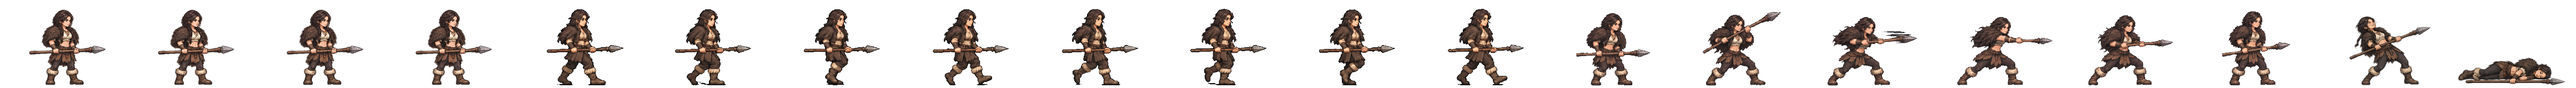
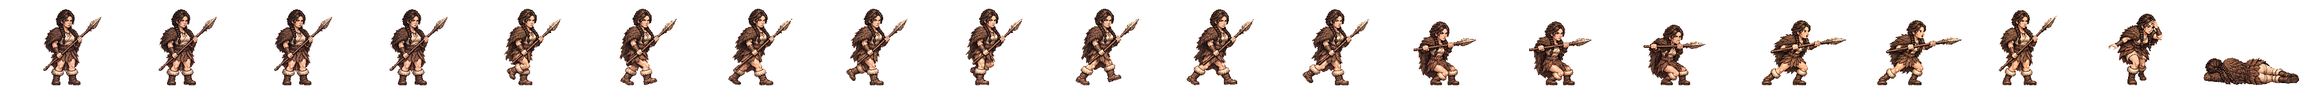
저가 엄니 · 우시산 해솔 · 관나 쇠눈 새 전투 띠를 게임에 (창 · 새 찌르기 · 맞음 네 칸 · 개성 동작) · 끝까지 찌른 칸은 a4 로 · 엄니 쓰러짐은 형 요청대로 속곳이 살짝 보이게 다시 · 해솔 찌르기 a 칸4 는 손 셋을 고친 판으로
Claude-Session: https://claude.ai/code/session_01TRiuN7s6aDfSnaHxrkctmU

Changed region(s): [[0.0, 0.0938, 1.0, 0.9688]]

diff --git a/src/realm/data/spritePx.ts b/src/realm/data/spritePx.ts
@@ -1,3 +1,3 @@
 /** public/realm/anim-px/manifest.json 의 사본 — tools/sprite-normalize.mjs 가 만든다 (손으로 고치지 말 것). 칸 [가로, 세로] · feet = 발 줄(칸 위에서 y) · bodyPx = 서 있는 몸 키 */
 import { expandManifest } from './sprite-manifest.ts'
-export const SPRITE_PX: Readonly<Record<string, { readonly cell: readonly [number, number]; readonly feet: number; readonly bodyPx: number; readonly kind: 'general' | 'soldier' | 'folk' | 'crowd'; readonly cells: number }>> = expandManifest<{ readonly cell: readonly [number, number]; readonly feet: number; readonly bodyPx: number; readonly kind: 'general' | 'soldier' | 'folk' | 'crowd'; readonly cells: number }>([{"cell":[166,128],"feet":126,"bodyPx":124,"kind":"soldier","cells":20},{"cell":[116,128],"feet":126,"bodyPx":117,"kind":"soldier","cells":20},{"cell":[127,128],"feet":126,"bodyPx":116,"kind":"soldier","cells":20},{"cell":[269,128],"feet":126,"bodyPx":126,"kind":"soldier","cells":20},{"cell":[503,128],"feet":126,"bodyPx":127,"kind":"soldier","cells":20},{"cell":[614,128],"feet":126,"bodyPx":126,"kind":"soldier","cells":20},{"cell":[200,160],"feet":156,"bodyPx":138,"kind":"general","cells":20},{"cell":[208,160],"feet":155,"bodyPx":138,"kind":"general","cells":20},{"cell":[208,160],"feet":154,"bodyPx":138,"kind":"general","cells":20},{"cell":[304,160],"feet":155,"bodyPx":135,"kind":"general","cells":20},{"cell":[184,160],"feet":156,"bodyPx":138,"kind":"general","cells":20},{"cell":[208,160],"feet":154,"bodyPx":136,"kind":"general","cells":20},{"cell":[232,160],"feet":156,"bodyPx":138,"kind":"general","cells":20},{"cell":[208,160],"feet":156,"bodyPx":138,"kind":"general","cells":20},{"cell":[168,160],"feet":156,"bodyPx":124,"kind":"general","cells":20},{"cell":[216,160],"feet":156,"bodyPx":130,"kind":"general","cells":20},{"cell":[200,160],"feet":156,"bodyPx":116,"kind":"general","cells":20},{"cell":[192,160],"feet":156,"bodyPx":138,"kind":"general","cells":20},{"cell":[200,160],"feet":156,"bodyPx":135,"kind":"general","cells":20},{"cell":[280,160],"feet":156,"bodyPx":138,"kind":"general","cells":20},{"cell":[232,160],"feet":155,"bodyPx":138,"kind":"general","cells":20},{"cell":[232,160],"feet":156,"bodyPx":134,"kind":"general","cells":20},{"cell":[144,160],"feet":156,"bodyPx":70,"kind":"general","cells":20},{"cell":[208,160],"feet":156,"bodyPx":70,"kind":"general","cells":20},{"cell":[192,160],"feet":156,"bodyPx":70,"kind":"general","cells":20},{"cell":[240,160],"feet":155,"bodyPx":138,"kind":"general","cells":20},{"cell":[160,160],"feet":156,"bodyPx":135,"kind":"general","cells":20},{"cell":[192,160],"feet":156,"bodyPx":128,"kind":"general","cells":20},{"cell":[224,160],"feet":155,"bodyPx":138,"kind":"general","cells":20},{"cell":[232,160],"feet":156,"bodyPx":139,"kind":"general","cells":20},{"cell":[216,160],"feet":156,"bodyPx":138,"kind":"general","cells":20},{"cell":[208,160],"feet":156,"bodyPx":134,"kind":"general","cells":20},{"cell":[176,160],"feet":156,"bodyPx":130,"kind":"general","cells":20},{"cell":[248,160],"feet":156,"bodyPx":138,"kind":"general","cells":20},{"cell":[248,160],"feet":155,"bodyPx":138,"kind":"general","cells":20},{"cell":[192,160],"feet":155,"bodyPx":138,"kind":"general","cells":20},{"cell":[192,160],"feet":156,"bodyPx":124,"kind":"general","cells":20},{"cell":[208,160],"feet":154,"bodyPx":131,"kind":"general","cells":20},{"cell":[256,160],"feet":156,"bodyPx":138,"kind":"general","cells":20},{"cell":[240,160],"feet":156,"bodyPx":138,"kind":"general","cells":20},{"cell":[232,160],"feet":156,"bodyPx":73,"kind":"general","cells":20},{"cell":[256,160],"feet":155,"bodyPx":138,"kind":"general","cells":20},{"cell":[264,160],"feet":156,"bodyPx":138,"kind":"general","cells":20},{"cell":[224,160],"feet":156,"bodyPx":138,"kind":"general","cells":20},{"cell":[224,160],"feet":156,"bodyPx":128,"kind":"general","cells":20},{"cell":[176,160],"feet":156,"bodyPx":129,"kind":"general","cells":20},{"cell":[208,160],"feet":154,"bodyPx":139,"kind":"general","cells":20},{"cell":[208,160],"feet":156,"bodyPx":132,"kind":"general","cells":20},{"cell":[208,160],"feet":154,"bodyPx":137,"kind":"general","cells":20},{"cell":[184,160],"feet":156,"bodyPx":122,"kind":"general","cells":20},{"cell":[176,160],"feet":156,"bodyPx":138,"kind":"general","cells":20},{"cell":[280,160],"feet":155,"bodyPx":133,"kind":"general","cells":20},{"cell":[176,160],"feet":156,"bodyPx":70,"kind":"general","cells":20},{"cell":[186,128],"feet":126,"bodyPx":127,"kind":"soldier","cells":20},{"cell":[298,128],"feet":126,"bodyPx":126,"kind":"soldier","cells":20},{"cell":[82,128],"feet":126,"bodyPx":114,"kind":"folk","cells":8},{"cell":[134,128],"feet":126,"bodyPx":119,"kind":"soldier","cells":20},{"cell":[380,128],"feet":126,"bodyPx":124,"kind":"soldier","cells":20},{"cell":[114,128],"feet":126,"bodyPx":115,"kind":"soldier","cells":20},{"cell":[122,128],"feet":126,"bodyPx":114,"kind":"soldier","cells":20},{"cell":[254,128],"feet":126,"bodyPx":128,"kind":"soldier","cells":20},{"cell":[438,128],"feet":126,"bodyPx":126,"kind":"soldier","cells":20},{"cell":[88,128],"feet":126,"bodyPx":113,"kind":"folk","cells":8},{"cell":[100,128],"feet":126,"bodyPx":115,"kind":"folk","cells":8},{"cell":[108,128],"feet":126,"bodyPx":115,"kind":"folk","cells":8},{"cell":[63,128],"feet":126,"bodyPx":113,"kind":"folk","cells":8},{"cell":[69,96],"feet":96,"bodyPx":96,"kind":"crowd","cells":1},{"cell":[54,96],"feet":96,"bodyPx":96,"kind":"crowd","cells":1},{"cell":[47,96],"feet":96,"bodyPx":96,"kind":"crowd","cells":1},{"cell":[49,96],"feet":96,"bodyPx":96,"kind":"crowd","cells":1},{"cell":[57,96],"feet":96,"bodyPx":96,"kind":"crowd","cells":1},{"cell":[55,96],"feet":96,"bodyPx":96,"kind":"crowd","cells":1},{"cell":[45,96],"feet":96,"bodyPx":96,"kind":"crowd","cells":1},{"cell":[53,96],"feet":96,"bodyPx":96,"kind":"crowd","cells":1},{"cell":[64,96],"feet":96,"bodyPx":96,"kind":"crowd","cells":1},{"cell":[184,160],"feet":156,"bodyPx":124,"kind":"general","cells":20},{"cell":[184,160],"feet":156,"bodyPx":134,"kind":"general","cells":20},{"cell":[224,160],"feet":156,"bodyPx":133,"kind":"general","cells":20},{"cell":[192,160],"feet":156,"bodyPx":135,"kind":"general","cells":20},{"cell":[184,160],"feet":156,"bodyPx":137,"kind":"general","cells":20},{"cell":[216,160],"feet":156,"bodyPx":134,"kind":"general","cells":20},{"cell":[216,160],"feet":156,"bodyPx":132,"kind":"general","cells":20},{"cell":[288,160],"feet":156,"bodyPx":138,"kind":"general","cells":20},{"cell":[192,160],"feet":156,"bodyPx":118,"kind":"general","cells":20},{"cell":[208,160],"feet":154,"bodyPx":134,"kind":"general","cells":20},{"cell":[208,160],"feet":154,"bodyPx":128,"kind":"general","cells":20},{"cell":[240,160],"feet":156,"bodyPx":128,"kind":"general","cells":20},{"cell":[184,160],"feet":156,"bodyPx":132,"kind":"general","cells":20},{"cell":[208,160],"feet":156,"bodyPx":123,"kind":"general","cells":20},{"cell":[176,160],"feet":156,"bodyPx":116,"kind":"general","cells":20},{"cell":[272,160],"feet":156,"bodyPx":138,"kind":"general","cells":20},{"cell":[176,160],"feet":156,"bodyPx":122,"kind":"general","cells":20},{"cell":[232,160],"feet":156,"bodyPx":127,"kind":"general","cells":20},{"cell":[168,160],"feet":156,"bodyPx":138,"kind":"general","cells":20},{"cell":[176,160],"feet":156,"bodyPx":137,"kind":"general","cells":20},{"cell":[184,160],"feet":156,"bodyPx":133,"kind":"general","cells":20}],[["axe",0],["bandit-chief",1],["bandit-club",2],["boat",3],["bow",4],["crossbow",5],["gen-adogan",6],["gen-alpyeong",7],["gen-ara",8],["gen-areum",8],["gen-aryeong",9],["gen-bakdal",6],["gen-baram",8],["gen-bdanbi",10],["gen-beom",11],["gen-beombal",8],["gen-beomi",8],["gen-bira",12],["gen-biryu",13],["gen-budeul",8],["gen-byeol",8],["gen-daemusin",14],["gen-daeso",15],["gen-dallae2",10],["gen-dalli",8],["gen-damul",16],["gen-danbi",8],["gen-dangung",17],["gen-darae",18],["gen-dokmudeom",7],["gen-duman",19],["gen-eomni",20],["gen-eureum",21],["gen-g-bow",22],["gen-g-spear",23],["gen-g-sword",24],["gen-gaennae",6],["gen-gamsil",25],["gen-gaon",26],["gen-geota",13],["gen-geumbawi",10],["gen-geumha",27],["gen-goeun",13],["gen-gom",28],["gen-gomok",13],["gen-gureum",8],["gen-guryema",17],["gen-gwaeyu",12],["gen-haebi",8],["gen-haedal",6],["gen-haesol",29],["gen-halla",7],["gen-heo",8],["gen-hneoul",10],["gen-hogong",30],["gen-hojin",13],["gen-horselord",31],["gen-hwalmi",32],["gen-hyeokgeose",17],["gen-hyeopbo",6],["gen-irang",8],["gen-jibaekho",33],["gen-jinha",34],["gen-jita",35],["gen-jumong",36],["gen-keundol",7],["gen-maehwa",37],["gen-maenun",17],["gen-malgalgi",38],["gen-mari",39],["gen-maro",33],["gen-maryeo",13],["gen-mdallae",29],["gen-mir",6],["gen-mount",40],["gen-mulbeom",41],["gen-mulsae",30],["gen-musoe",30],["gen-noeul",8],["gen-nuri",42],["gen-ocheongan",43],["gen-odi",8],["gen-odogan",6],["gen-ogan",17],["gen-oi",44],["gen-olddaeso",21],["gen-onjo",45],["gen-pidogan",13],["gen-sagong",46],["gen-sdallae",6],["gen-sincheongan",30],["gen-singwigan",30],["gen-sinneoul",8],["gen-sobeol",20],["gen-soebi",6],["gen-soebo",47],["gen-soenun",33],["gen-sogeumbi",48],["gen-songbi",43],["gen-songyang",49],["gen-sori",50],["gen-soseono",51],["gen-suro",17],["gen-tahae",6],["gen-tneoul",8],["gen-w-bow",22],["gen-w-spear",52],["gen-waechief",13],["gen-wan",30],["gen-yeodogan",13],["gen-yucheongan",13],["gen-yusugan",33],["horse",53],["marine",54],["migrant",55],["militia",56],["pike",57],["pirate-captain",58],["pirate-sword",59],["shield",60],["spear",61],["villager-builder",62],["villager-farmer",63],["villager-porter",64],["villager-woman",65],["crowd-b1",66],["crowd-b2",67],["crowd-b3",68],["crowd-b4",69],["crowd-b5",70],["crowd-b6",71],["crowd-f1",66],["crowd-f2",71],["crowd-f3",72],["crowd-f4",73],["crowd-f5",66],["crowd-f6",74],["gen-dalbit",13],["gen-base-g-07-drunk-warrior",17],["gen-base-g-40-anya-adan",13],["gen-base-w-13-young-archer",8],["gen-base-g-03-sea-trader",39],["gen-base-w-10-pirate-captain",46],["gen-base-w-64-miri-dallae",46],["gen-base-g-41-goja-bau",39],["gen-base-g-42-dokro-garam",42],["gen-base-g-09-farmer-conscript",30],["gen-base-w-02-goguryeo-lady",30],["gen-base-w-17-mahan-pearl-diver",8],["gen-base-g-17-saro-isageum",47],["gen-base-g-18-daegaya-king",75],["gen-base-g-35-dabeol-dalgu",13],["gen-base-g-19-sabeol-veteran",30],["gen-base-w-23-usisan-whale-queen",8],["gen-base-g-36-gammun-gamdol",43],["gen-base-g-20-samul-sea-lord",38],["gen-base-g-37-eumjeup-jeup",10],["gen-base-g-38-chopal-palmae",17],["gen-base-w-75-daegaya-soemoe",17],["gen-base-g-45-dabeol-deulgae",10],["gen-base-g-04-jinhan-giant",13],["gen-base-g-08-veteran",13],["gen-base-w-18-jinhan-salt-widow",8],["gen-base-w-12-court-dancer",76],["gen-base-w-83-gyeonji-beodeul",77],["gen-base-w-05-baekje-queen",78],["gen-base-w-21-baekje-court-dancer",10],["gen-base-g-01-master-smith",79],["gen-base-g-93-jomun-solgae",32],["gen-base-g-57-bihwa-neup",39],["gen-base-w-72-eumjeup-beol",8],["gen-base-w-102-garak-dana",46],["gen-base-g-68-baekje-onnuri",13],["gen-base-w-27-mokji-jinha",6],["gen-base-g-22-ungcheon-gomnae",6],["gen-base-g-23-sangdang-soedal",13],["gen-base-g-24-wansan-onsan",6],["gen-base-g-25-balla-keunmoe",30],["gen-base-g-61-heomcheuk-bawi",30],["gen-base-g-88-wander-soeul",43],["gen-base-w-14-feast-spy",6],["gen-base-g-12-silla-youth",80],["gen-base-w-08-mahan-warrior",8],["gen-base-g-62-beonye-hanul",39],["gen-base-g-63-heomcheuk-beogeum",13],["gen-base-g-84-wander-seoneul",13],["gen-base-w-50-siljik-mulga",30],["gen-base-g-46-uga-nureongso",30],["gen-base-w-80-usan-gangchi",46],["gen-base-g-47-guga-sanyanggae",30],["gen-base-w-76-gampyeong-baetsagong",8],["gen-base-g-05-mahan-chieftain",81],["gen-base-g-58-usan-uhae",13],["gen-base-g-27-maek-maekdol",13],["gen-base-w-53-hwanna-gabi",46],["gen-base-w-29-golpo-janmul",33],["gen-base-g-53-baekje-haeru",6],["gen-base-w-71-yeonna-neoul",8],["gen-base-w-79-yangmaek-solmae",8],["gen-base-w-34-chopal-deulme",8],["gen-base-g-44-maga-malgup",82],["gen-base-w-31-dabeol-dalbit",46],["gen-base-g-51-biryuna-mulgyeol",43],["gen-base-g-48-gwanna-musoe",13],["gen-base-g-32-uga-sodu",12],["gen-base-g-49-goguryeo-sona",83],["gen-base-g-30-gwanna-soemoe",43],["gen-base-g-52-tamna-oreum",10],["gen-base-g-29-yeonna-myeongsol",36],["gen-base-w-56-dongokjeo-sogeum",84],["gen-base-g-54-mokji-mahan",12],["gen-base-g-33-jeoga-metdol",17],["gen-base-w-36-baekje-maena",8],["gen-base-w-38-sangdang-bulmae",6],["gen-base-w-39-gosaburi-galmae",8],["gen-base-w-40-mujin-munui",47],["gen-base-w-41-hwanna-beodeul",85],["gen-base-w-43-uga-nuri",38],["gen-base-w-45-tamna-oreumbi",10],["gen-base-g-60-golbeol-golgae",10],["gen-base-g-61-apdok-ap",30],["gen-base-g-62-gammun-gamnamu",6],["gen-base-g-63-chopal-yeoul",33],["gen-base-g-64-michuhol-sogeumkkun",39],["gen-base-g-65-sangdang-soemangchi",43],["gen-base-g-66-geonma-malbalgup",86],["gen-base-g-67-gosaburi-buri",87],["gen-base-g-68-mujin-bitgoeul",10],["gen-base-g-69-goryong-yong",43],["gen-base-g-70-siljik-pado",39],["gen-base-w-81-byeokjin-byeolbit",8],["gen-base-w-46-geonma-maru",8],["gen-base-w-48-mujin-mudeung",8],["gen-base-g-26-gampyeong-gaetbeol",12],["gen-base-g-60-eupcha-hangyeol",88],["gen-base-g-15-shaman-man",30],["gen-base-g-85-wander-ure",33],["gen-base-g-43-hwanna-amnok",13],["gen-base-g-50-bullae-gwaha",78],["gen-base-g-55-saro-bakdal",13],["gen-base-g-56-haseulla-gwahama",6],["gen-base-w-06-buyeo-huntress",48],["gen-base-w-22-dongye-tiger-huntress",8],["gen-base-w-25-bihwa-priestess",30],["gen-base-w-24-apdok-queen",10],["gen-base-w-61-iseo-sinae",13],["gen-base-w-26-iseo-tomboy-general",8],["gen-base-g-59-yangmaek-maekson",89],["gen-aw1-haebi",43],["gen-aw1-soseono",90],["gen-aw1-gamsil",10],["gen-aw1-mir",50],["gen-aw1-dangung",6],["gen-aw1-ara",43],["gen-aw1-jumong",91],["gen-aw1-onjo",92],["gen-aw1-base-w-83-gyeonji-beodeul",17],["gen-aw1-heo",42],["gen-aw1-base-g-38-chopal-palmae",6],["gen-aw1-base-w-25-bihwa-priestess",76],["gen-aw1-sori",93],["gen-aw1-gomok",6],["gen-aw1-irang",17],["gen-aw1-budeul",93],["gen-aw1-gom",39],["gen-aw1-sdallae",6],["gen-aw1-base-w-13-young-archer",6],["gen-aw1-base-w-36-baekje-maena",94],["gen-aw1-base-g-09-farmer-conscript",42],["gen-aw1-base-w-02-goguryeo-lady",95],["gen-aw1-haedal",10],["gen-aw1-hogong",6],["gen-aw1-maehwa",50],["gen-aw1-base-w-06-buyeo-huntress",12],["gen-aw1-base-w-08-mahan-warrior",43],["gen-aw1-base-w-29-golpo-janmul",43],["gen-aw1-base-w-31-dabeol-dalbit",17],["gen-aw1-base-w-38-sangdang-bulmae",93],["gen-aw1-bira",30],["gen-aw1-base-w-53-hwanna-gabi",93],["gen-aw1-base-w-56-dongokjeo-sogeum",50],["gen-aw1-base-w-72-eumjeup-beol",17],["gen-aw1-bdanbi",93],["gen-aw1-beom",10],["gen-aw1-beombal",10],["gen-aw1-byeol",17],["gen-aw1-dalli",50],["gen-aw1-malgalgi",33],["gen-aw1-sincheongan",30]])
+export const SPRITE_PX: Readonly<Record<string, { readonly cell: readonly [number, number]; readonly feet: number; readonly bodyPx: number; readonly kind: 'general' | 'soldier' | 'folk' | 'crowd'; readonly cells: number }>> = expandManifest<{ readonly cell: readonly [number, number]; readonly feet: number; readonly bodyPx: number; readonly kind: 'general' | 'soldier' | 'folk' | 'crowd'; readonly cells: number }>([{"cell":[166,128],"feet":126,"bodyPx":124,"kind":"soldier","cells":20},{"cell":[116,128],"feet":126,"bodyPx":117,"kind":"soldier","cells":20},{"cell":[127,128],"feet":126,"bodyPx":116,"kind":"soldier","cells":20},{"cell":[269,128],"feet":126,"bodyPx":126,"kind":"soldier","cells":20},{"cell":[503,128],"feet":126,"bodyPx":127,"kind":"soldier","cells":20},{"cell":[614,128],"feet":126,"bodyPx":126,"kind":"soldier","cells":20},{"cell":[200,160],"feet":156,"bodyPx":138,"kind":"general","cells":20},{"cell":[208,160],"feet":155,"bodyPx":138,"kind":"general","cells":20},{"cell":[208,160],"feet":154,"bodyPx":138,"kind":"general","cells":20},{"cell":[304,160],"feet":155,"bodyPx":135,"kind":"general","cells":20},{"cell":[184,160],"feet":156,"bodyPx":138,"kind":"general","cells":20},{"cell":[208,160],"feet":154,"bodyPx":136,"kind":"general","cells":20},{"cell":[232,160],"feet":156,"bodyPx":138,"kind":"general","cells":20},{"cell":[208,160],"feet":156,"bodyPx":138,"kind":"general","cells":20},{"cell":[168,160],"feet":156,"bodyPx":124,"kind":"general","cells":20},{"cell":[216,160],"feet":156,"bodyPx":130,"kind":"general","cells":20},{"cell":[200,160],"feet":156,"bodyPx":116,"kind":"general","cells":20},{"cell":[192,160],"feet":156,"bodyPx":138,"kind":"general","cells":20},{"cell":[200,160],"feet":156,"bodyPx":135,"kind":"general","cells":20},{"cell":[280,160],"feet":156,"bodyPx":138,"kind":"general","cells":20},{"cell":[232,160],"feet":156,"bodyPx":134,"kind":"general","cells":20},{"cell":[144,160],"feet":156,"bodyPx":70,"kind":"general","cells":20},{"cell":[208,160],"feet":156,"bodyPx":70,"kind":"general","cells":20},{"cell":[192,160],"feet":156,"bodyPx":70,"kind":"general","cells":20},{"cell":[240,160],"feet":155,"bodyPx":138,"kind":"general","cells":20},{"cell":[160,160],"feet":156,"bodyPx":135,"kind":"general","cells":20},{"cell":[192,160],"feet":156,"bodyPx":128,"kind":"general","cells":20},{"cell":[224,160],"feet":155,"bodyPx":138,"kind":"general","cells":20},{"cell":[216,160],"feet":156,"bodyPx":138,"kind":"general","cells":20},{"cell":[208,160],"feet":156,"bodyPx":134,"kind":"general","cells":20},{"cell":[176,160],"feet":156,"bodyPx":130,"kind":"general","cells":20},{"cell":[248,160],"feet":156,"bodyPx":138,"kind":"general","cells":20},{"cell":[248,160],"feet":155,"bodyPx":138,"kind":"general","cells":20},{"cell":[192,160],"feet":155,"bodyPx":138,"kind":"general","cells":20},{"cell":[192,160],"feet":156,"bodyPx":124,"kind":"general","cells":20},{"cell":[208,160],"feet":154,"bodyPx":131,"kind":"general","cells":20},{"cell":[256,160],"feet":156,"bodyPx":138,"kind":"general","cells":20},{"cell":[240,160],"feet":156,"bodyPx":138,"kind":"general","cells":20},{"cell":[232,160],"feet":156,"bodyPx":139,"kind":"general","cells":20},{"cell":[232,160],"feet":156,"bodyPx":73,"kind":"general","cells":20},{"cell":[256,160],"feet":155,"bodyPx":138,"kind":"general","cells":20},{"cell":[264,160],"feet":156,"bodyPx":138,"kind":"general","cells":20},{"cell":[224,160],"feet":156,"bodyPx":138,"kind":"general","cells":20},{"cell":[224,160],"feet":156,"bodyPx":128,"kind":"general","cells":20},{"cell":[176,160],"feet":156,"bodyPx":129,"kind":"general","cells":20},{"cell":[208,160],"feet":154,"bodyPx":139,"kind":"general","cells":20},{"cell":[232,160],"feet":155,"bodyPx":138,"kind":"general","cells":20},{"cell":[208,160],"feet":156,"bodyPx":132,"kind":"general","cells":20},{"cell":[208,160],"feet":154,"bodyPx":137,"kind":"general","cells":20},{"cell":[184,160],"feet":156,"bodyPx":122,"kind":"general","cells":20},{"cell":[176,160],"feet":156,"bodyPx":138,"kind":"general","cells":20},{"cell":[280,160],"feet":155,"bodyPx":133,"kind":"general","cells":20},{"cell":[176,160],"feet":156,"bodyPx":70,"kind":"general","cells":20},{"cell":[186,128],"feet":126,"bodyPx":127,"kind":"soldier","cells":20},{"cell":[298,128],"feet":126,"bodyPx":126,"kind":"soldier","cells":20},{"cell":[82,128],"feet":126,"bodyPx":114,"kind":"folk","cells":8},{"cell":[134,128],"feet":126,"bodyPx":119,"kind":"soldier","cells":20},{"cell":[380,128],"feet":126,"bodyPx":124,"kind":"soldier","cells":20},{"cell":[114,128],"feet":126,"bodyPx":115,"kind":"soldier","cells":20},{"cell":[122,128],"feet":126,"bodyPx":114,"kind":"soldier","cells":20},{"cell":[254,128],"feet":126,"bodyPx":128,"kind":"soldier","cells":20},{"cell":[438,128],"feet":126,"bodyPx":126,"kind":"soldier","cells":20},{"cell":[88,128],"feet":126,"bodyPx":113,"kind":"folk","cells":8},{"cell":[100,128],"feet":126,"bodyPx":115,"kind":"folk","cells":8},{"cell":[108,128],"feet":126,"bodyPx":115,"kind":"folk","cells":8},{"cell":[63,128],"feet":126,"bodyPx":113,"kind":"folk","cells":8},{"cell":[69,96],"feet":96,"bodyPx":96,"kind":"crowd","cells":1},{"cell":[54,96],"feet":96,"bodyPx":96,"kind":"crowd","cells":1},{"cell":[47,96],"feet":96,"bodyPx":96,"kind":"crowd","cells":1},{"cell":[49,96],"feet":96,"bodyPx":96,"kind":"crowd","cells":1},{"cell":[57,96],"feet":96,"bodyPx":96,"kind":"crowd","cells":1},{"cell":[55,96],"feet":96,"bodyPx":96,"kind":"crowd","cells":1},{"cell":[45,96],"feet":96,"bodyPx":96,"kind":"crowd","cells":1},{"cell":[53,96],"feet":96,"bodyPx":96,"kind":"crowd","cells":1},{"cell":[64,96],"feet":96,"bodyPx":96,"kind":"crowd","cells":1},{"cell":[184,160],"feet":156,"bodyPx":124,"kind":"general","cells":20},{"cell":[184,160],"feet":156,"bodyPx":134,"kind":"general","cells":20},{"cell":[224,160],"feet":156,"bodyPx":133,"kind":"general","cells":20},{"cell":[192,160],"feet":156,"bodyPx":135,"kind":"general","cells":20},{"cell":[184,160],"feet":156,"bodyPx":137,"kind":"general","cells":20},{"cell":[216,160],"feet":156,"bodyPx":134,"kind":"general","cells":20},{"cell":[216,160],"feet":156,"bodyPx":132,"kind":"general","cells":20},{"cell":[288,160],"feet":156,"bodyPx":138,"kind":"general","cells":20},{"cell":[192,160],"feet":156,"bodyPx":118,"kind":"general","cells":20},{"cell":[208,160],"feet":154,"bodyPx":134,"kind":"general","cells":20},{"cell":[208,160],"feet":154,"bodyPx":128,"kind":"general","cells":20},{"cell":[240,160],"feet":156,"bodyPx":128,"kind":"general","cells":20},{"cell":[184,160],"feet":156,"bodyPx":132,"kind":"general","cells":20},{"cell":[208,160],"feet":156,"bodyPx":123,"kind":"general","cells":20},{"cell":[176,160],"feet":156,"bodyPx":116,"kind":"general","cells":20},{"cell":[272,160],"feet":156,"bodyPx":138,"kind":"general","cells":20},{"cell":[176,160],"feet":156,"bodyPx":122,"kind":"general","cells":20},{"cell":[232,160],"feet":156,"bodyPx":127,"kind":"general","cells":20},{"cell":[168,160],"feet":156,"bodyPx":138,"kind":"general","cells":20},{"cell":[176,160],"feet":156,"bodyPx":137,"kind":"general","cells":20},{"cell":[184,160],"feet":156,"bodyPx":133,"kind":"general","cells":20}],[["axe",0],["bandit-chief",1],["bandit-club",2],["boat",3],["bow",4],["crossbow",5],["gen-adogan",6],["gen-alpyeong",7],["gen-ara",8],["gen-areum",8],["gen-aryeong",9],["gen-bakdal",6],["gen-baram",8],["gen-bdanbi",10],["gen-beom",11],["gen-beombal",8],["gen-beomi",8],["gen-bira",12],["gen-biryu",13],["gen-budeul",8],["gen-byeol",8],["gen-daemusin",14],["gen-daeso",15],["gen-dallae2",10],["gen-dalli",8],["gen-damul",16],["gen-danbi",8],["gen-dangung",17],["gen-darae",18],["gen-dokmudeom",7],["gen-duman",19],["gen-eomni",8],["gen-eureum",20],["gen-g-bow",21],["gen-g-spear",22],["gen-g-sword",23],["gen-gaennae",6],["gen-gamsil",24],["gen-gaon",25],["gen-geota",13],["gen-geumbawi",10],["gen-geumha",26],["gen-goeun",13],["gen-gom",27],["gen-gomok",13],["gen-gureum",8],["gen-guryema",17],["gen-gwaeyu",12],["gen-haebi",8],["gen-haedal",6],["gen-haesol",8],["gen-halla",7],["gen-heo",8],["gen-hneoul",10],["gen-hogong",28],["gen-hojin",13],["gen-horselord",29],["gen-hwalmi",30],["gen-hyeokgeose",17],["gen-hyeopbo",6],["gen-irang",8],["gen-jibaekho",31],["gen-jinha",32],["gen-jita",33],["gen-jumong",34],["gen-keundol",7],["gen-maehwa",35],["gen-maenun",17],["gen-malgalgi",36],["gen-mari",37],["gen-maro",31],["gen-maryeo",13],["gen-mdallae",38],["gen-mir",6],["gen-mount",39],["gen-mulbeom",40],["gen-mulsae",28],["gen-musoe",28],["gen-noeul",8],["gen-nuri",41],["gen-ocheongan",42],["gen-odi",8],["gen-odogan",6],["gen-ogan",17],["gen-oi",43],["gen-olddaeso",20],["gen-onjo",44],["gen-pidogan",13],["gen-sagong",45],["gen-sdallae",6],["gen-sincheongan",28],["gen-singwigan",28],["gen-sinneoul",8],["gen-sobeol",46],["gen-soebi",6],["gen-soebo",47],["gen-soenun",45],["gen-sogeumbi",48],["gen-songbi",42],["gen-songyang",49],["gen-sori",50],["gen-soseono",51],["gen-suro",17],["gen-tahae",6],["gen-tneoul",8],["gen-w-bow",21],["gen-w-spear",52],["gen-waechief",13],["gen-wan",28],["gen-yeodogan",13],["gen-yucheongan",13],["gen-yusugan",31],["horse",53],["marine",54],["migrant",55],["militia",56],["pike",57],["pirate-captain",58],["pirate-sword",59],["shield",60],["spear",61],["villager-builder",62],["villager-farmer",63],["villager-porter",64],["villager-woman",65],["crowd-b1",66],["crowd-b2",67],["crowd-b3",68],["crowd-b4",69],["crowd-b5",70],["crowd-b6",71],["crowd-f1",66],["crowd-f2",71],["crowd-f3",72],["crowd-f4",73],["crowd-f5",66],["crowd-f6",74],["gen-dalbit",13],["gen-base-g-07-drunk-warrior",17],["gen-base-g-40-anya-adan",13],["gen-base-w-13-young-archer",8],["gen-base-g-03-sea-trader",37],["gen-base-w-10-pirate-captain",45],["gen-base-w-64-miri-dallae",45],["gen-base-g-41-goja-bau",37],["gen-base-g-42-dokro-garam",41],["gen-base-g-09-farmer-conscript",28],["gen-base-w-02-goguryeo-lady",28],["gen-base-w-17-mahan-pearl-diver",8],["gen-base-g-17-saro-isageum",47],["gen-base-g-18-daegaya-king",75],["gen-base-g-35-dabeol-dalgu",13],["gen-base-g-19-sabeol-veteran",28],["gen-base-w-23-usisan-whale-queen",8],["gen-base-g-36-gammun-gamdol",42],["gen-base-g-20-samul-sea-lord",36],["gen-base-g-37-eumjeup-jeup",10],["gen-base-g-38-chopal-palmae",17],["gen-base-w-75-daegaya-soemoe",17],["gen-base-g-45-dabeol-deulgae",10],["gen-base-g-04-jinhan-giant",13],["gen-base-g-08-veteran",13],["gen-base-w-18-jinhan-salt-widow",8],["gen-base-w-12-court-dancer",76],["gen-base-w-83-gyeonji-beodeul",77],["gen-base-w-05-baekje-queen",78],["gen-base-w-21-baekje-court-dancer",10],["gen-base-g-01-master-smith",79],["gen-base-g-93-jomun-solgae",30],["gen-base-g-57-bihwa-neup",37],["gen-base-w-72-eumjeup-beol",8],["gen-base-w-102-garak-dana",45],["gen-base-g-68-baekje-onnuri",13],["gen-base-w-27-mokji-jinha",6],["gen-base-g-22-ungcheon-gomnae",6],["gen-base-g-23-sangdang-soedal",13],["gen-base-g-24-wansan-onsan",6],["gen-base-g-25-balla-keunmoe",28],["gen-base-g-61-heomcheuk-bawi",28],["gen-base-g-88-wander-soeul",42],["gen-base-w-14-feast-spy",6],["gen-base-g-12-silla-youth",80],["gen-base-w-08-mahan-warrior",8],["gen-base-g-62-beonye-hanul",37],["gen-base-g-63-heomcheuk-beogeum",13],["gen-base-g-84-wander-seoneul",13],["gen-base-w-50-siljik-mulga",28],["gen-base-g-46-uga-nureongso",28],["gen-base-w-80-usan-gangchi",45],["gen-base-g-47-guga-sanyanggae",28],["gen-base-w-76-gampyeong-baetsagong",8],["gen-base-g-05-mahan-chieftain",81],["gen-base-g-58-usan-uhae",13],["gen-base-g-27-maek-maekdol",13],["gen-base-w-53-hwanna-gabi",45],["gen-base-w-29-golpo-janmul",31],["gen-base-g-53-baekje-haeru",6],["gen-base-w-71-yeonna-neoul",8],["gen-base-w-79-yangmaek-solmae",8],["gen-base-w-34-chopal-deulme",8],["gen-base-g-44-maga-malgup",82],["gen-base-w-31-dabeol-dalbit",45],["gen-base-g-51-biryuna-mulgyeol",42],["gen-base-g-48-gwanna-musoe",13],["gen-base-g-32-uga-sodu",12],["gen-base-g-49-goguryeo-sona",83],["gen-base-g-30-gwanna-soemoe",42],["gen-base-g-52-tamna-oreum",10],["gen-base-g-29-yeonna-myeongsol",34],["gen-base-w-56-dongokjeo-sogeum",84],["gen-base-g-54-mokji-mahan",12],["gen-base-g-33-jeoga-metdol",17],["gen-base-w-36-baekje-maena",8],["gen-base-w-38-sangdang-bulmae",6],["gen-base-w-39-gosaburi-galmae",8],["gen-base-w-40-mujin-munui",47],["gen-base-w-41-hwanna-beodeul",85],["gen-base-w-43-uga-nuri",36],["gen-base-w-45-tamna-oreumbi",10],["gen-base-g-60-golbeol-golgae",10],["gen-base-g-61-apdok-ap",28],["gen-base-g-62-gammun-gamnamu",6],["gen-base-g-63-chopal-yeoul",31],["gen-base-g-64-michuhol-sogeumkkun",37],["gen-base-g-65-sangdang-soemangchi",42],["gen-base-g-66-geonma-malbalgup",86],["gen-base-g-67-gosaburi-buri",87],["gen-base-g-68-mujin-bitgoeul",10],["gen-base-g-69-goryong-yong",42],["gen-base-g-70-siljik-pado",37],["gen-base-w-81-byeokjin-byeolbit",8],["gen-base-w-46-geonma-maru",8],["gen-base-w-48-mujin-mudeung",8],["gen-base-g-26-gampyeong-gaetbeol",12],["gen-base-g-60-eupcha-hangyeol",88],["gen-base-g-15-shaman-man",28],["gen-base-g-85-wander-ure",31],["gen-base-g-43-hwanna-amnok",13],["gen-base-g-50-bullae-gwaha",78],["gen-base-g-55-saro-bakdal",13],["gen-base-g-56-haseulla-gwahama",6],["gen-base-w-06-buyeo-huntress",48],["gen-base-w-22-dongye-tiger-huntress",8],["gen-base-w-25-bihwa-priestess",28],["gen-base-w-24-apdok-queen",10],["gen-base-w-61-iseo-sinae",13],["gen-base-w-26-iseo-tomboy-general",8],["gen-base-g-59-yangmaek-maekson",89],["gen-aw1-haebi",42],["gen-aw1-soseono",90],["gen-aw1-gamsil",10],["gen-aw1-mir",50],["gen-aw1-dangung",6],["gen-aw1-ara",42],["gen-aw1-jumong",91],["gen-aw1-onjo",92],["gen-aw1-base-w-83-gyeonji-beodeul",17],["gen-aw1-heo",41],["gen-aw1-base-g-38-chopal-palmae",6],["gen-aw1-base-w-25-bihwa-priestess",76],["gen-aw1-sori",93],["gen-aw1-gomok",6],["gen-aw1-irang",17],["gen-aw1-budeul",93],["gen-aw1-gom",37],["gen-aw1-sdallae",6],["gen-aw1-base-w-13-young-archer",6],["gen-aw1-base-w-36-baekje-maena",94],["gen-aw1-base-g-09-farmer-conscript",41],["gen-aw1-base-w-02-goguryeo-lady",95],["gen-aw1-haedal",10],["gen-aw1-hogong",6],["gen-aw1-maehwa",50],["gen-aw1-base-w-06-buyeo-huntress",12],["gen-aw1-base-w-08-mahan-warrior",42],["gen-aw1-base-w-29-golpo-janmul",42],["gen-aw1-base-w-31-dabeol-dalbit",17],["gen-aw1-base-w-38-sangdang-bulmae",93],["gen-aw1-bira",28],["gen-aw1-base-w-53-hwanna-gabi",93],["gen-aw1-base-w-56-dongokjeo-sogeum",50],["gen-aw1-base-w-72-eumjeup-beol",17],["gen-aw1-bdanbi",93],["gen-aw1-beom",10],["gen-aw1-beombal",10],["gen-aw1-byeol",17],["gen-aw1-dalli",50],["gen-aw1-malgalgi",31],["gen-aw1-sincheongan",28]])

diff --git a/src/duel/view.ts b/src/duel/view.ts
@@ -100,7 +100,7 @@ const crowdFront = [1, 2, 3, 4, 5, 6].map((i) => img(`realm/duel/crowd/b${i}.png
 const crowdReady = (set: HTMLImageElement[]): boolean => set.every((im) => im.complete && im.naturalWidth > 0)
 const pxMode = cfg.px !== false && params.get('px') !== '0'
 /** 겨루기 전용 옛 띠(duel/sprites) 대신 열전과 같은 도트 띠(anim-px)를 쓰는 장수 — 두 판에서 같은 모습 · 서기 계획·쓰러지는 칸도 같다 (11-23 범 · 매화 · 달빛 · 11-24 해비 · 아룸) */
-const PX_DUEL: ReadonlySet<string> = new Set(['beom', 'maehwa', 'base-w-31-dabeol-dalbit', 'haebi', 'areum', 'base-w-13-young-archer', 'base-w-10-pirate-captain', 'base-w-17-mahan-pearl-diver', 'base-w-06-buyeo-huntress', 'base-w-64-miri-dallae', 'ara', 'base-w-22-dongye-tiger-huntress', 'noeul', 'sagong', 'sinneoul', 'heo', 'base-w-08-mahan-warrior', 'base-w-23-usisan-whale-queen', 'base-w-26-iseo-tomboy-general', 'base-w-72-eumjeup-beol', 'tneoul', 'odi', 'base-w-76-gampyeong-baetsagong', 'base-w-34-chopal-deulme', 'base-w-102-garak-dana', 'base-w-36-baekje-maena', 'base-w-56-dongokjeo-sogeum', 'budeul', 'base-w-53-hwanna-gabi', 'base-w-18-jinhan-salt-widow', 'beombal', 'irang', 'sogeumbi', 'baram', 'byeol', 'base-w-71-yeonna-neoul', 'base-w-39-gosaburi-galmae', 'base-w-41-hwanna-beodeul', 'base-w-79-yangmaek-solmae', 'base-w-46-geonma-maru', 'base-w-48-mujin-mudeung', 'base-w-80-usan-gangchi', 'base-w-81-byeokjin-byeolbit', 'beomi', 'danbi', 'dalli', 'gureum'])
+const PX_DUEL: ReadonlySet<string> = new Set(['beom', 'maehwa', 'base-w-31-dabeol-dalbit', 'haebi', 'areum', 'base-w-13-young-archer', 'base-w-10-pirate-captain', 'base-w-17-mahan-pearl-diver', 'base-w-06-buyeo-huntress', 'base-w-64-miri-dallae', 'ara', 'base-w-22-dongye-tiger-huntress', 'noeul', 'sagong', 'sinneoul', 'heo', 'base-w-08-mahan-warrior', 'base-w-23-usisan-whale-queen', 'base-w-26-iseo-tomboy-general', 'base-w-72-eumjeup-beol', 'tneoul', 'odi', 'base-w-76-gampyeong-baetsagong', 'base-w-34-chopal-deulme', 'base-w-102-garak-dana', 'base-w-36-baekje-maena', 'base-w-56-dongokjeo-sogeum', 'budeul', 'base-w-53-hwanna-gabi', 'base-w-18-jinhan-salt-widow', 'beombal', 'irang', 'sogeumbi', 'baram', 'byeol', 'base-w-71-yeonna-neoul', 'base-w-39-gosaburi-galmae', 'base-w-41-hwanna-beodeul', 'base-w-79-yangmaek-solmae', 'base-w-46-geonma-maru', 'base-w-48-mujin-mudeung', 'base-w-80-usan-gangchi', 'base-w-81-byeokjin-byeolbit', 'beomi', 'danbi', 'dalli', 'gureum', 'haesol', 'soenun', 'eomni'])
 /** 띠 그림 — 기본은 anim-px(도트 규격) 먼저, 없으면 옛 띠로 (img 의 onerror 가 갈아 끼운다) */
 const strip = (s: string): HTMLImageElement => pxMode
   ? DUEL_ATLASES[s] !== undefined && !PX_DUEL.has(s) ? img(`realm/duel/sprites/gen-${s}.png`, `realm/anim-px/gen-${s}.png`)

diff --git a/src/tune/params.ts b/src/tune/params.ts
@@ -1466,6 +1466,9 @@ export const HAEBI_IDLE = {
     danbi: { cells: 26, base: [0, 1], hold: 2.4, fall: [18, 20, 21, 19], quirk: [22, 23, 24, 25], quirkTimes: [.28, .3, .42, .25] },
     dalli: { cells: 26, base: [0, 1], hold: 2.4, fall: [18, 20, 21, 19], quirk: [22, 23, 24, 25], quirkTimes: [.28, .3, .42, .25] },
     gureum: { cells: 38, base: [0, 1], hold: 2.4, fall: [18, 20, 21, 19], quirk: [22, 23, 24, 25], quirkTimes: [.3, .32, .4, .28], attack: { cells: [26, 27, 28, 29, 30, 31, 32, 33], times: [.09, .08, .11, .12, .12, .08, .08, .12], hit: 3 }, hurt: [34, 35], rise: [36, 37], xGeom: { h: 224, root: 92, foot: 216 } },
+    haesol: { cells: 38, base: [0, 1], hold: 2.4, fall: [18, 20, 21, 19], quirk: [22, 23, 24, 25], quirkTimes: [.3, .32, .4, .28], attack: { cells: [26, 27, 28, 29, 30, 31, 32, 33], times: [.09, .08, .11, .12, .12, .08, .08, .12], hit: 3 }, hurt: [34, 35], rise: [36, 37], xGeom: { h: 224, root: 92, foot: 216 } },
+    soenun: { cells: 38, base: [0, 1], hold: 2.4, fall: [18, 20, 21, 19], quirk: [22, 23, 24, 25], quirkTimes: [.3, .32, .4, .28], attack: { cells: [26, 27, 28, 29, 30, 31, 32, 33], times: [.09, .08, .11, .12, .12, .08, .08, .12], hit: 3 }, hurt: [34, 35], rise: [36, 37], xGeom: { h: 224, root: 92, foot: 216 } },
+    eomni: { cells: 38, base: [0, 1], hold: 2.4, fall: [18, 20, 21, 19], quirk: [22, 23, 24, 25], quirkTimes: [.3, .32, .4, .28], attack: { cells: [26, 27, 28, 29, 30, 31, 32, 33], times: [.09, .08, .11, .12, .12, .08, .08, .12], hit: 3 }, hurt: [34, 35], rise: [36, 37], xGeom: { h: 224, root: 92, foot: 216 } },
   },
 } as const
 export const HAEBI_ANIM = {

diff --git a/tools/sprite-kit/anim-harness.py b/tools/sprite-kit/anim-harness.py
@@ -83,10 +83,10 @@ HEROES = {
     'gangchi': dict(hit=True, strip='gen-base-w-80-usan-gangchi', atk='thrust', src='thrust2', actw=264, refoot=True, atk8=True, act=True, legacy=(('a', 2), ('a', 3), ('b', 3), ('b', 4))),   # 우산 강치(미늘창 · 가슴 M) · 여섯째 묶음
     'byeolbit': dict(hit=True, strip='gen-base-w-81-byeokjin-byeolbit', atk='thrust', src='thrust2', actw=264, refoot=True, atk8=True, act=True, legacy=(('a', 2), ('a', 3), ('b', 3), ('b', 4)), cells8=[('a', 1), ('a', 2), ('a', 3), ('a', 4), ('a', 4), ('a', 4), ('b', 3), ('b', 4)]),   # 벽진 별빛(창 · 비늘 갑옷 · 가슴 M) · 여섯째 묶음
     'beomi': dict(hit=True, strip='gen-beomi', atk='thrust', src='thrust2', actw=264, refoot=True, atk8=True, act=True, legacy=(('a', 2), ('a', 3), ('b', 3), ('b', 4)), cells8=[('a', 1), ('a', 2), ('a', 3), ('a', 4), ('a', 4), ('a', 4), ('b', 3), ('b', 4)]),   # 사로 범이(범가죽 · 창 · 우람한 뼈대) · 여덟째 묶음
-    'eomni': dict(hit=True, strip='gen-eomni', atk='thrust', src='thrust2', actw=264, refoot=True, atk8=True, act=True, legacy=(('a', 2), ('a', 3), ('b', 3), ('b', 4))),   # 저가 엄니(털 망토 · 창 · 가슴 M) · 여덟째 묶음
+    'eomni': dict(hit=True, strip='gen-eomni', atk='thrust', src='thrust2', actw=264, refoot=True, atk8=True, act=True, legacy=(('a', 2), ('a', 3), ('b', 3), ('b', 4)), cells8=[('a', 1), ('a', 2), ('a', 3), ('a', 4), ('a', 4), ('a', 4), ('b', 3), ('b', 4)]),   # 저가 엄니(털 망토 · 창 · 가슴 M) · 여덟째 묶음
     'gureum': dict(hit=True, strip='gen-gureum', atk='thrust', src='thrust2', actw=264, refoot=True, atk8=True, act=True, legacy=(('a', 2), ('a', 3), ('b', 3), ('b', 4)), cells8=[('a', 1), ('a', 2), ('a', 3), ('a', 4), ('a', 4), ('a', 4), ('b', 3), ('b', 4)]),   # 고룡 구름(창 · 가슴 M) · 여덟째 묶음
-    'haesol': dict(hit=True, strip='gen-haesol', atk='thrust', src='thrust2', actw=264, refoot=True, atk8=True, act=True, legacy=(('a', 2), ('a', 3), ('b', 3), ('b', 4))),   # 우시산 해솔(가는 창 · 가슴 M) · 여덟째 묶음
-    'soenun': dict(hit=True, strip='gen-soenun', atk='thrust', src='thrust2', actw=264, refoot=True, atk8=True, act=True, legacy=(('a', 2), ('a', 3), ('b', 3), ('b', 4))),   # 관나 쇠눈(비늘 갑옷 · 창) · 여덟째 묶음
+    'haesol': dict(hit=True, strip='gen-haesol', atk='thrust', src='thrust2', actw=264, refoot=True, atk8=True, act=True, legacy=(('a', 2), ('a', 3), ('b', 3), ('b', 4)), cells8=[('a', 1), ('a', 2), ('a', 3), ('a', 4), ('a', 4), ('a', 4), ('b', 3), ('b', 4)]),   # 우시산 해솔(가는 창 · 가슴 M) · 여덟째 묶음
+    'soenun': dict(hit=True, strip='gen-soenun', atk='thrust', src='thrust2', actw=264, refoot=True, atk8=True, act=True, legacy=(('a', 2), ('a', 3), ('b', 3), ('b', 4)), cells8=[('a', 1), ('a', 2), ('a', 3), ('a', 4), ('a', 4), ('a', 4), ('b', 3), ('b', 4)]),   # 관나 쇠눈(비늘 갑옷 · 창) · 여덟째 묶음
     'haebi': dict(hit=True, strip='gen-haebi', atk='chop', atk8=True, act=True),   # act = 공격 여덟 칸이 넓은 동작 칸(240×224 · 뿌리 92 · 발 줄 216)
     'areum': dict(hit=True, strip='gen-areum', atk='slam', atk8=True, act=True, lock='none'),   # 받은 그림 그대로(얼굴을 떠다 붙이지 않는다 — 11-24: 뭉친 얼굴이 여덟 칸에 퍼졌다) · 옛 lock='face': 메가 머리 뒤로 지나간다 — 머리 상자는 메를 자르고(「포스터」), 윗몸을 통째로 묶으면 떠다닌다(11-24 형) → 얼굴 안쪽만 묶는다
 }
